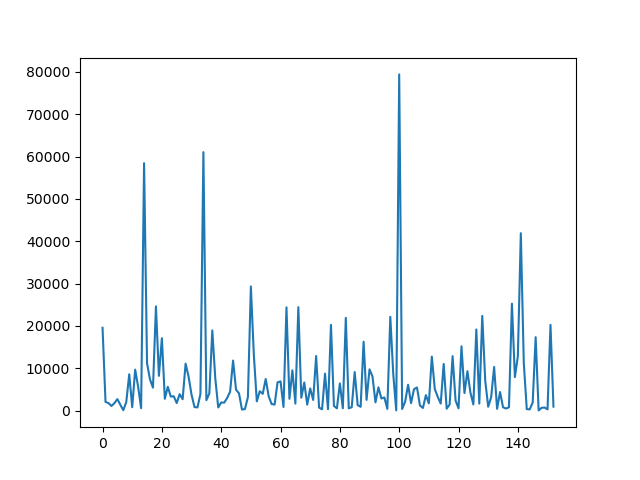
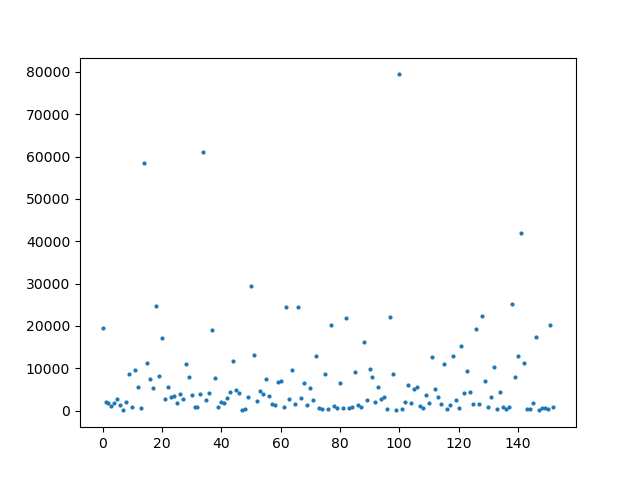
Naive wrong analysis

Changed region(s): [[0.1562, 0.1875, 0.875, 0.875]]

diff --git a/wrong_analysis.py b/wrong_analysis.py
@@ -26,6 +26,91 @@ from torch_geometric.nn import GATConv, SAGEConv
 from torch_sparse import SparseTensor
 from tqdm import tqdm
 
+ROOT='/fs/ess/PAS1289/mag240m_kddcup2021'
+dataset = MAG240MDataset(root = ROOT)
+valid_idx=dataset.get_idx_split('valid')
+paper_label=dataset.paper_label[valid_idx]
+
+
+ensemble_result=np.load("/users/PAS1289/oiocha/OGB-NeurIPS-Team-Park/ensemble_result.npy")
+degree=np.load("/users/PAS1289/oiocha/OGB-NeurIPS-Team-Park/paper_degree.npy")
+
+mx=9
+
+y_preds=ensemble_result
+t_cnt=[0]*(mx+1) # Number of correct paper whose degree is 0,1,2,3+
+f_cnt=[0]*(mx+1) # Number of incorrect paper whose degree is 0,1,2,3+
+
+cnt=len(paper_label)
+acc_cnt=0
+for i in range(valid_idx.shape[0]):
+    if(y_preds[i]==paper_label[i]):
+        t_cnt[int(min(degree[valid_idx[i]],mx))]+=1
+        acc_cnt+=1
+    else:
+        f_cnt[int(min(degree[valid_idx[i]],mx))]+=1
+
+print(f"Validation accuracy : {acc_cnt/cnt}")
+print()
+
+print("Total node's degree distribution")
+for i in range(mx):
+    print(f"Degree=={i} : {t_cnt[i]+f_cnt[i]}({(t_cnt[i]+f_cnt[i])/cnt*100:.2f}%), Conditional accuracy : {t_cnt[i]/(t_cnt[i]+f_cnt[i]):.5f}")
+print(f"Degree>={mx} : {t_cnt[mx]+f_cnt[mx]}({(t_cnt[mx]+f_cnt[mx])/cnt*100:.2f}%), Conditional accuracy : {t_cnt[mx]/(t_cnt[mx]+f_cnt[mx]):.5f}")
+print()
+
+print("Correct node's degree distribution")
+for i in range(mx):
+    print(f"Degree=={i} : {t_cnt[i]}({(t_cnt[i])/acc_cnt*100:.2f}%)")
+print(f"Degree>={mx} : {t_cnt[mx]}({(t_cnt[mx])/acc_cnt*100:.2f}%)")
+print()
+
+print("Incorrect node's degree distribution")
+for i in range(mx):
+    print(f"Degree=={i} : {f_cnt[i]}({(f_cnt[i])/(cnt-acc_cnt)*100:.2f}%)")
+print(f"Degree>={mx} : {f_cnt[mx]}({(f_cnt[mx])/(cnt-acc_cnt)*100:.2f}%)")
+
+
+'''
+Validation accuracy : 0.6949096431064635
+
+Total node's degree distribution
+Degree==0 : 12274(8.83%), Conditional accuracy : 0.60534
+Degree==1 : 4992(3.59%), Conditional accuracy : 0.60998
+Degree==2 : 3339(2.40%), Conditional accuracy : 0.64990
+Degree==3 : 2754(1.98%), Conditional accuracy : 0.66231
+Degree==4 : 2483(1.79%), Conditional accuracy : 0.67499
+Degree==5 : 2468(1.78%), Conditional accuracy : 0.69814
+Degree==6 : 2582(1.86%), Conditional accuracy : 0.68125
+Degree==7 : 2625(1.89%), Conditional accuracy : 0.70552
+Degree==8 : 2666(1.92%), Conditional accuracy : 0.70030
+Degree>=9 : 102766(73.96%), Conditional accuracy : 0.71240
+
+Correct node's degree distribution
+Degree==0 : 7430(7.69%)
+Degree==1 : 3045(3.15%)
+Degree==2 : 2170(2.25%)
+Degree==3 : 1824(1.89%)
+Degree==4 : 1676(1.74%)
+Degree==5 : 1723(1.78%)
+Degree==6 : 1759(1.82%)
+Degree==7 : 1852(1.92%)
+Degree==8 : 1867(1.93%)
+Degree>=9 : 73211(75.82%)
+
+Incorrect node's degree distribution
+Degree==0 : 4844(11.43%)
+Degree==1 : 1947(4.59%)
+Degree==2 : 1169(2.76%)
+Degree==3 : 930(2.19%)
+Degree==4 : 807(1.90%)
+Degree==5 : 745(1.76%)
+Degree==6 : 823(1.94%)
+Degree==7 : 773(1.82%)
+Degree==8 : 799(1.88%)
+Degree>=9 : 29555(69.72%)
+'''
+
 # What aspect?
 '''
 R-GAT inference analysis

diff --git a/Analysis/analysis.py b/Analysis/analysis.py
@@ -53,7 +53,7 @@ print(f"2nd class is {int(tuple_list[-2][1])} : {int(tuple_list[-2][0])}")
 print(f"3rd class is {int(tuple_list[-3][1])} : {int(tuple_list[-3][0])}")
 print("...")
 print(f"Minimum class is {int(tuple_list[zero_cnt][1])} : {int(tuple_list[zero_cnt][0])}")
-plt.scatter(unique, counts)
+plt.plot(unique, counts, 'o', markersize=2)
 plt.savefig("Train_label_dist.png")
 plt.clf()
 print()
@@ -76,7 +76,7 @@ print(f"2nd class is {int(tuple_list[-2][1])} : {int(tuple_list[-2][0])}")
 print(f"3rd class is {int(tuple_list[-3][1])} : {int(tuple_list[-3][0])}")
 print("...")
 print(f"Minimum class is {int(tuple_list[zero_cnt][1])} : {int(tuple_list[zero_cnt][0])}")
-plt.scatter(unique, counts)
+plt.plot(unique, counts, 'o', markersize=2)
 plt.savefig("Valid_label_dist.png")
 plt.clf()
 print()
@@ -87,12 +87,14 @@ print()
 t0=time.time()
 print("Loading symmetric datas...")
 Adj=torch.load('/fs/ess/PAS1289/mag240m_kddcup2021/paper_to_paper_symmetric.pt').coo()
-row,col,_=Adj
+row,col,val=Adj
 print(f"Row, col's length : {row.shape[0]}")
 print(f"Done! {time.time()-t0}s")
 print()
 # You can actually sort whole array with code such as #row=row[:,np.argsort(row)] #col=col[:,np.argsort(row)] 
 # But that's unnecessary for now
+
+degree=np.zeros(dataset.num_papers)
 
 print("Total degree distribution")
 unique, counts = np.unique(row, return_counts=True)
@@ -101,6 +103,9 @@ print(f"Num_valid : {len(unique)}")
 tuple_list=[]
 for i in range(len(unique)):
     tuple_list.append((counts[i],unique[i]))
+    degree[unique[i]]=counts[i]
+np.save("paper_degree",degree)
+'''
 tuple_list.sort()
 counts.sort()
 plt.plot(counts[::-100],'ro',markersize=2)
@@ -193,6 +198,9 @@ print("...")
 print(f"Minimum degree is {int(tuple_list[0][1])} : {int(tuple_list[0][0])}")
 print(f"Done! {time.time()-t0}s")
 #print("=======================================")
+'''
+
+
 
 '''
 Loading done! : 0.13680410385131836s

diff --git a/ensemble_val.py b/ensemble_val.py
@@ -75,6 +75,7 @@ y_preds = np.argmax(summed_activation, axis=1)
 y_pred = y_preds.astype(np.short)
 dir_path=f'results/rgat_label_ensemble'
 filename = osp.join(dir_path, 'y_pred_mag240m')
+np.save("/users/PAS1289/oiocha/OGB-NeurIPS-Team-Park/ensemble_result",y_preds)
 np.savez_compressed(filename, y_pred=y_pred)
 total_acc=calculate_val_acc(y_preds)
 print(f'Total validation accuracy : {total_acc}')
